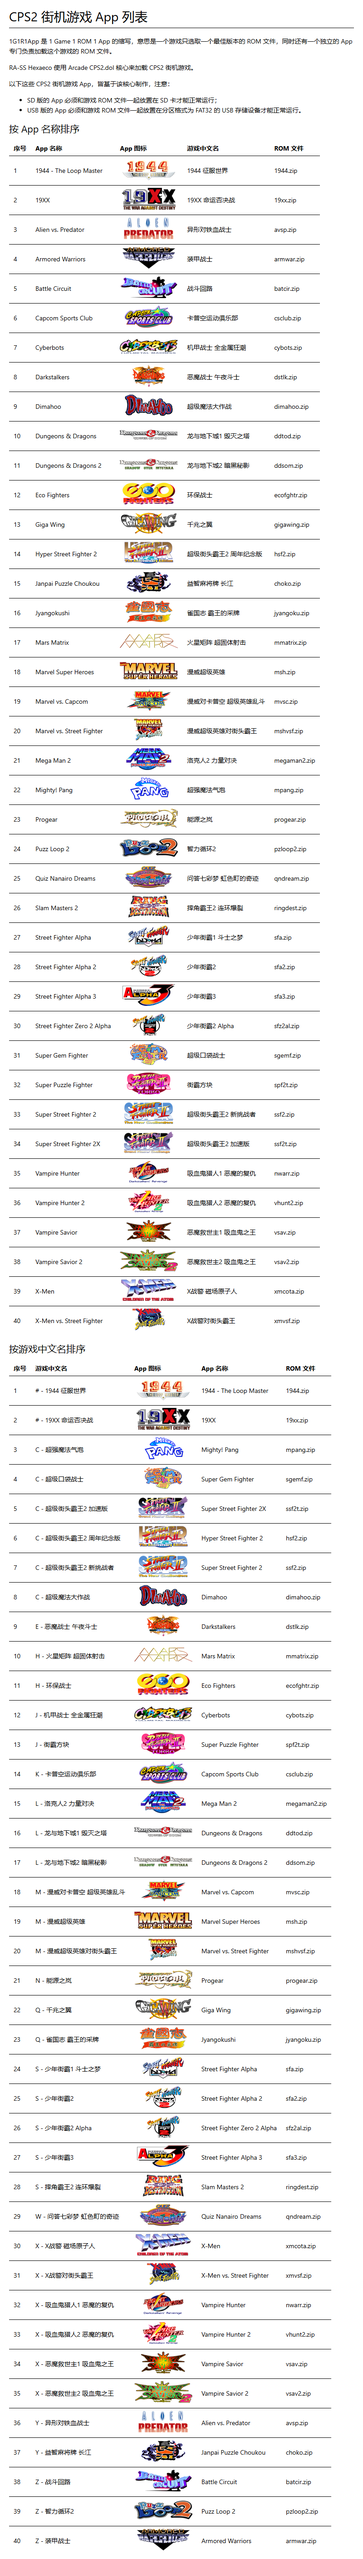
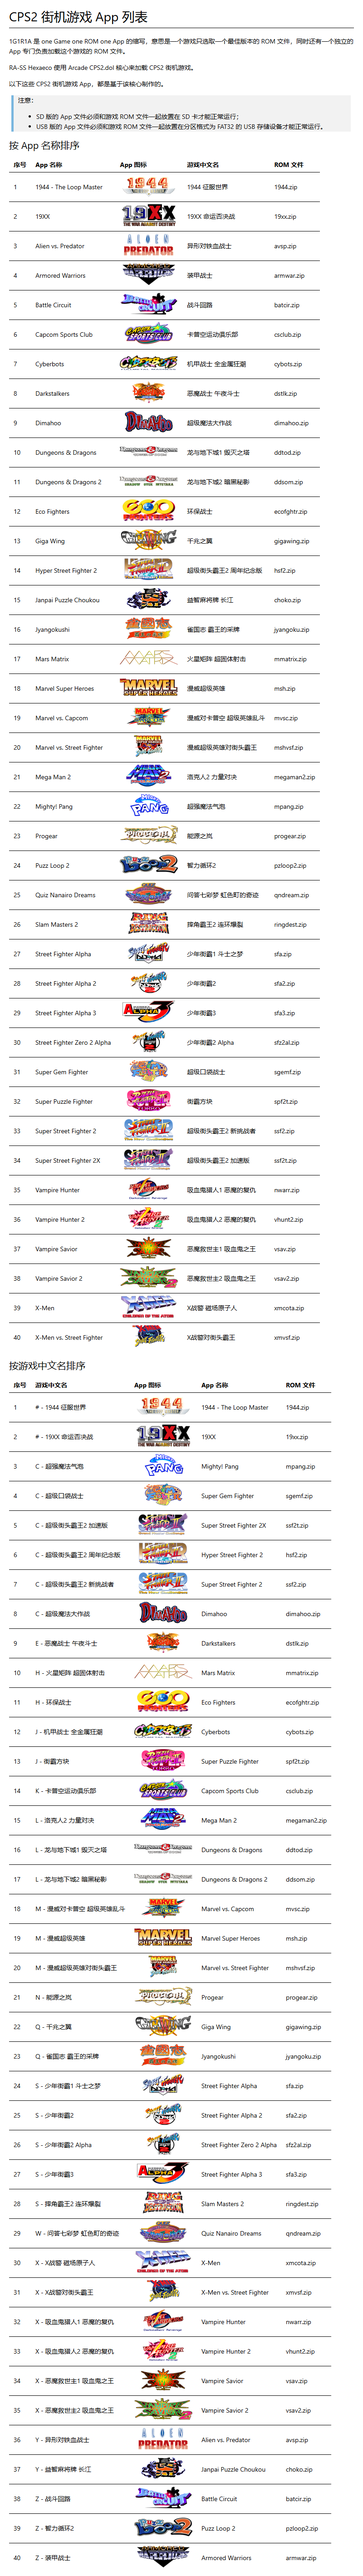
update CPS2 Apps (SS核心).md

Changed region(s): [[0.0312, 0.0, 0.75, 0.9986], [0.7188, 0.0312, 0.9062, 0.9674], [0.0312, 0.6241, 0.0625, 0.9674]]

diff --git a/CPS2 Apps (SS核心).md b/CPS2 Apps (SS核心).md
@@ -1,12 +1,14 @@
 # CPS2 街机游戏 App 列表
 
-1G1R1App 是 1 Game 1 ROM 1 App 的缩写，意思是一个游戏只选取一个最佳版本的 ROM 文件，同时还有一个独立的 App 专门负责加载这个游戏的 ROM 文件。
+1G1R1A 是 one Game one ROM one App 的缩写，意思是一个游戏只选取一个最佳版本的 ROM 文件，同时还有一个独立的 App 专门负责加载这个游戏的 ROM 文件。
 
 RA-SS Hexaeco 使用 Arcade CPS2.dol 核心来加载 CPS2 街机游戏。
 
-以下这些 CPS2 街机游戏 App，皆基于该核心制作，注意：
-- SD 版的 App 必须和游戏 ROM 文件一起放置在 SD 卡才能正常运行；
-- USB 版的 App 必须和游戏 ROM 文件一起放置在分区格式为 FAT32 的 USB 存储设备才能正常运行。
+以下这些 CPS2 街机游戏 App，都是基于该核心制作的。
+
+> 注意：
+> - SD 版的 App 文件必须和游戏 ROM 文件一起放置在 SD 卡才能正常运行；
+> - USB 版的 App 文件必须和游戏 ROM 文件一起放置在分区格式为 FAT32 的 USB 存储设备才能正常运行。
 
 ## 按 App 名称排序
 
